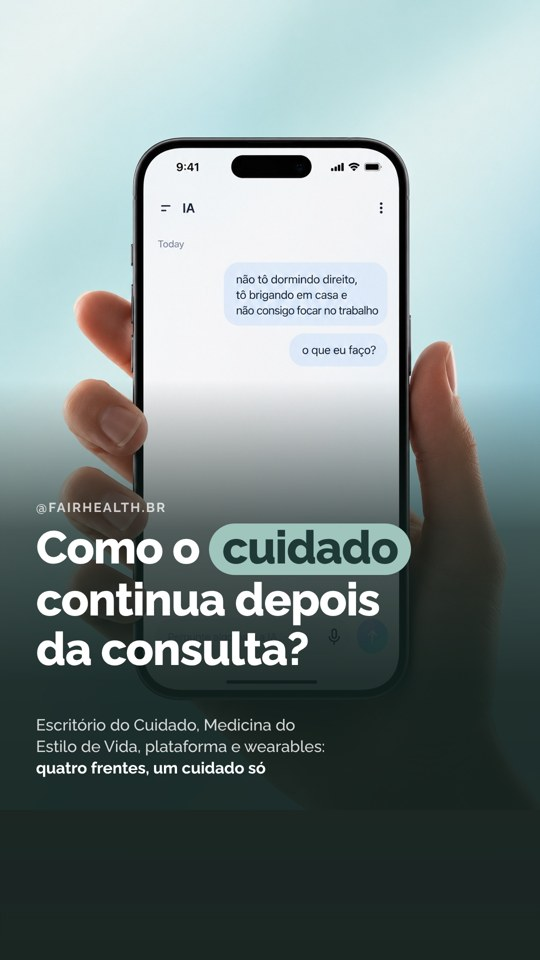
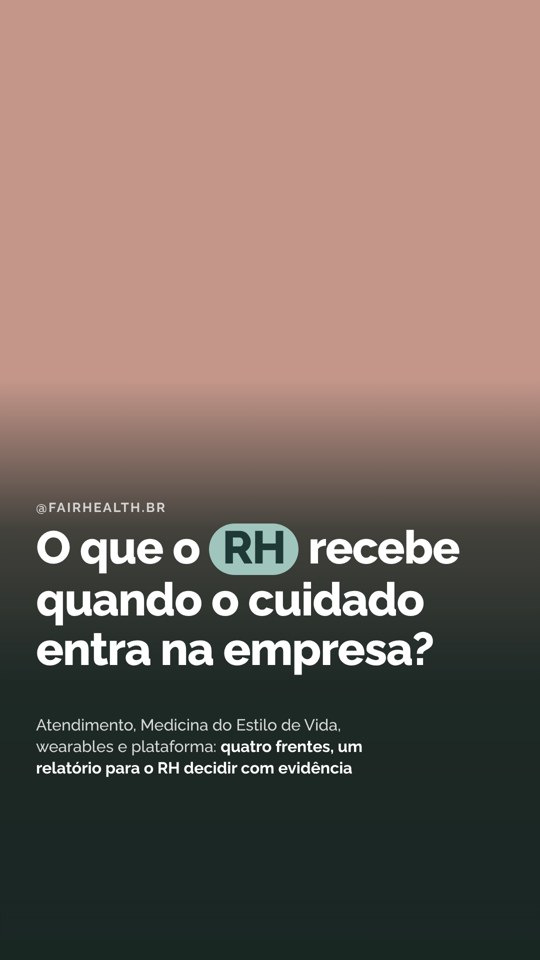
04/11 reel title: focus on what HR receives (the report), per the calendar
Claude-Session: https://claude.ai/code/session_01WTGmTcxuXR3YpUdSTauEMD

diff --git a/instagram/posts/quatro-frentes/titulo.html b/instagram/posts/quatro-frentes/titulo.html
@@ -2,7 +2,7 @@
 <html lang="pt-BR"><head><meta charset="utf-8"><title>Reel 04/11: título sobre o vídeo</title>
 <link rel="stylesheet" href="../../marca/base.css">
 <style>
-/* Título do Reel de 04/11 (Quatro frentes, um cuidado conectado), no estilo do reel de 30/10:
+/* Título do Reel de 04/11 (Quatro frentes, um cuidado conectado; foco no RH e no relatório, conforme o calendário), no estilo do reel de 30/10:
    @ pequeno, título grande em branco com a palavra-chave numa pílula Tiffany e subtítulo.
    PNG 1080x1920 com fundo transparente para pôr por cima do vídeo. O texto fica à esquerda e
    abaixo do meio, longe dos botões do Reels (lado direito) e da legenda (pé da tela). */
@@ -19,7 +19,7 @@ html,body{background:transparent;margin:0}
 <section class="slide" id="titulo-reel">
   <div class="degrade"></div>
   <p class="arroba">@FAIRHEALTH.BR</p>
-  <h1 class="tit">Como o <span class="pil">cuidado</span><br>continua depois<br>da consulta?</h1>
-  <p class="sub">Escritório do Cuidado, Medicina do Estilo de Vida, plataforma e wearables: <b>quatro frentes, um cuidado só</b></p>
+  <h1 class="tit">O que o <span class="pil">RH</span> recebe<br>quando o cuidado<br>entra na empresa?</h1>
+  <p class="sub">Atendimento, Medicina do Estilo de Vida, wearables e plataforma: <b>quatro frentes, um relatório para o RH decidir com evidência</b></p>
 </section>
 </body></html>
